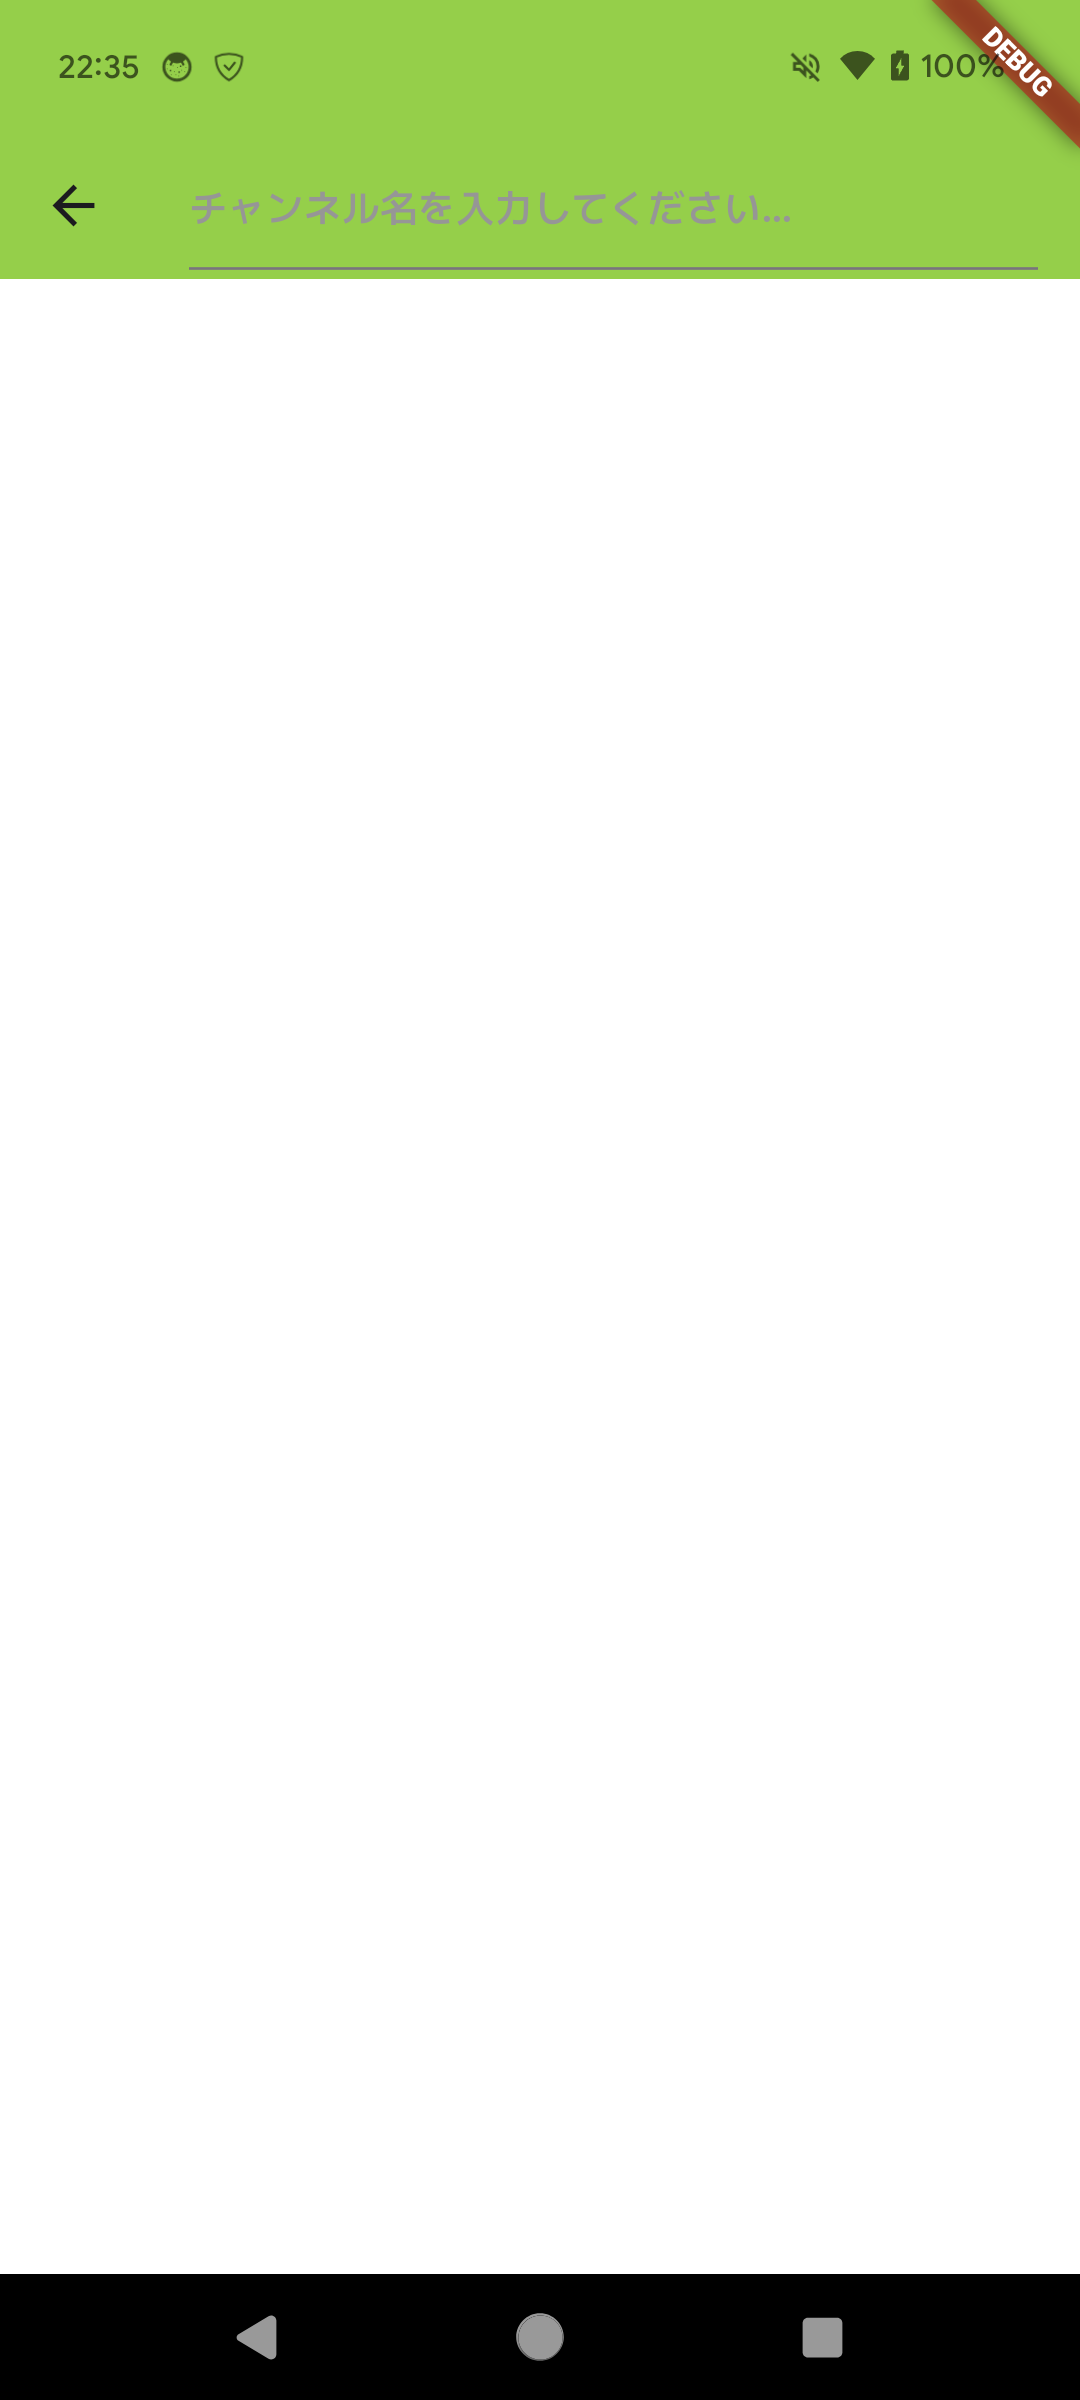
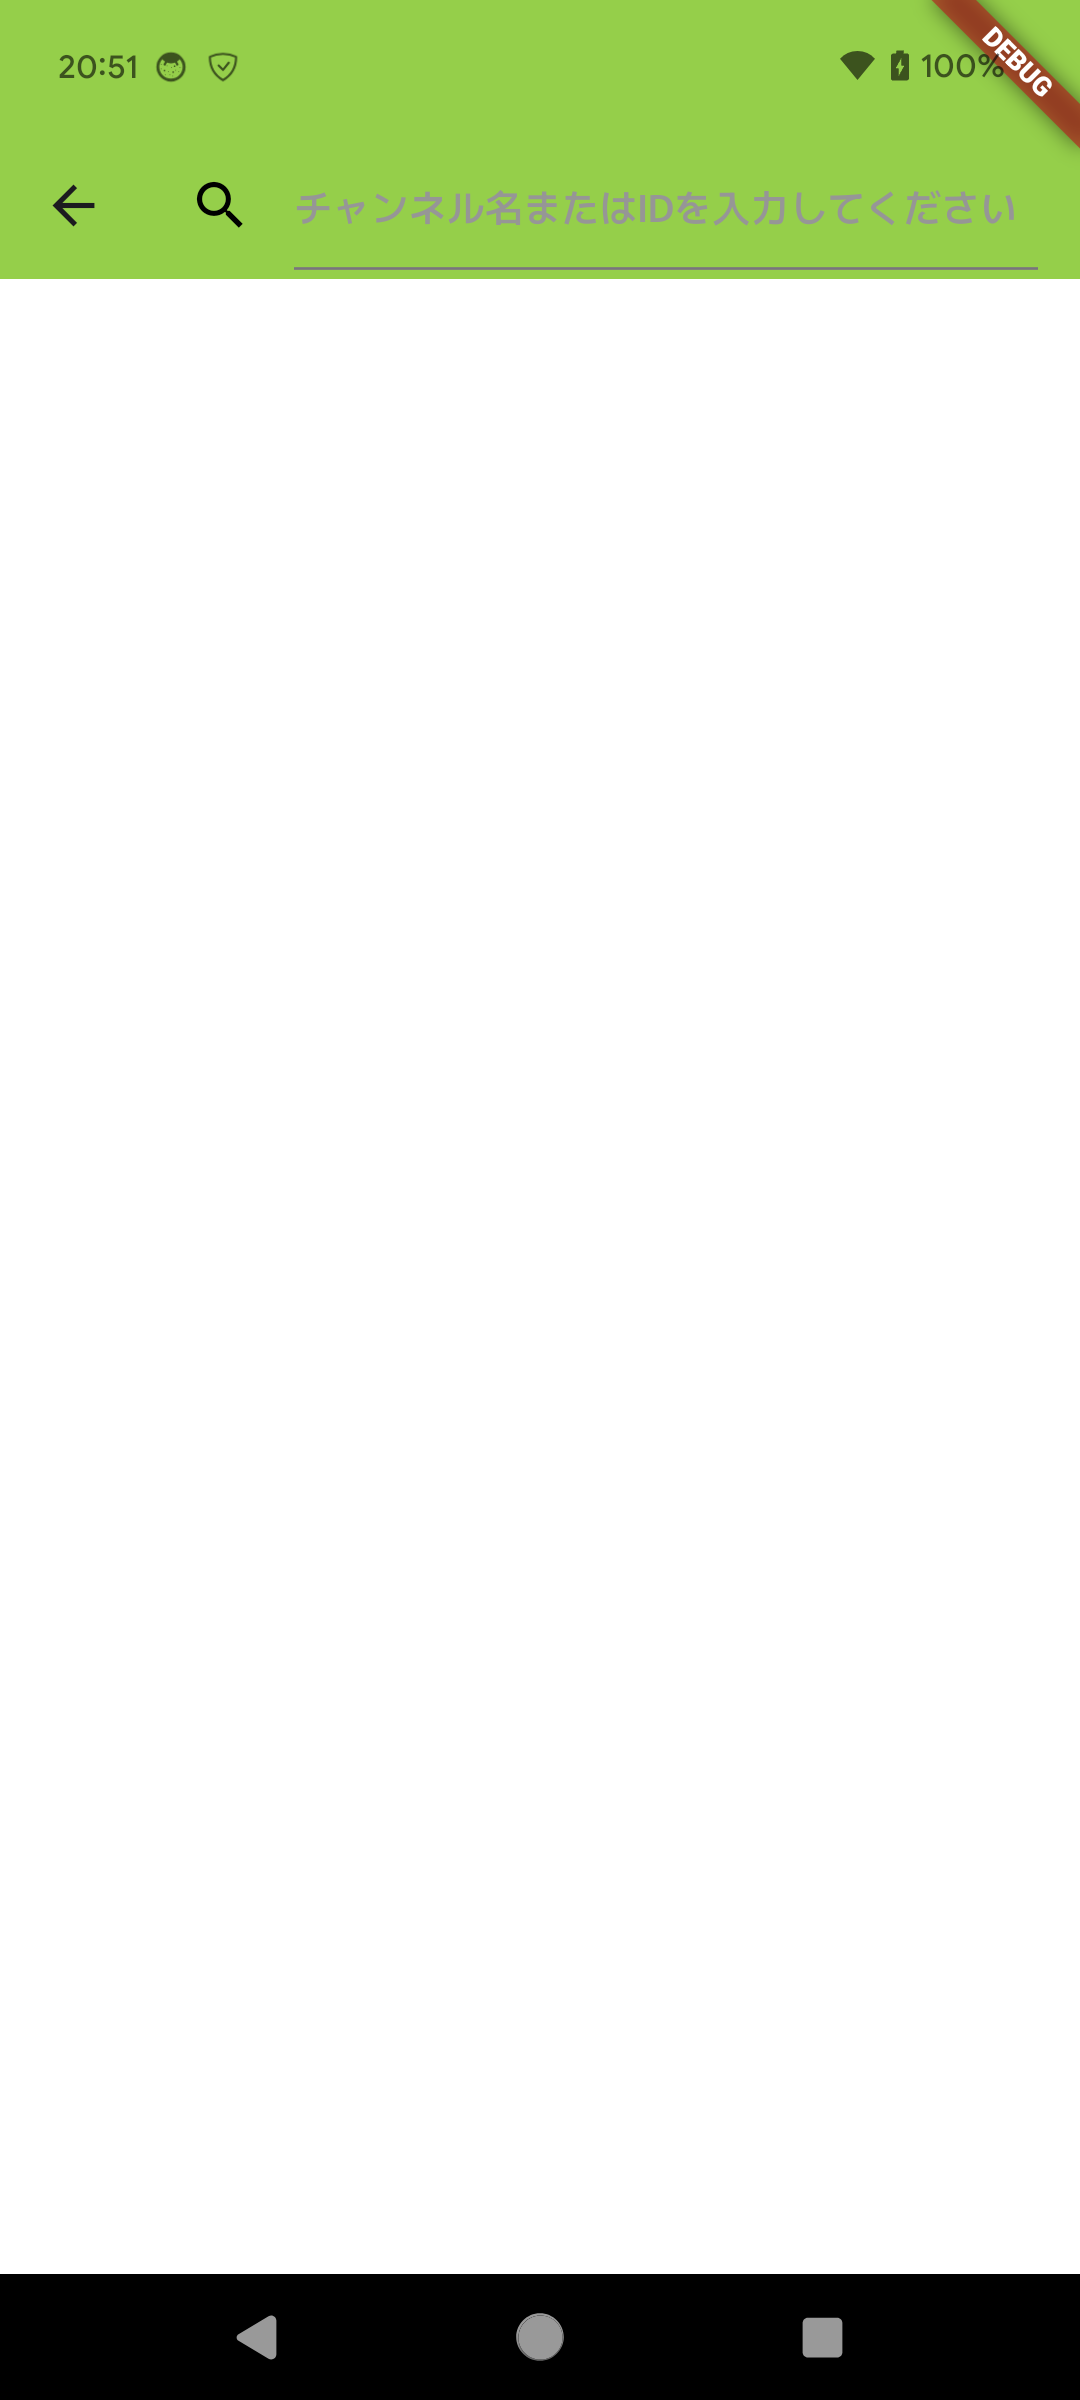
1.7.9仕様に更新しました。

diff --git a/docs/version-history.html b/docs/version-history.html
@@ -78,9 +78,40 @@
         <p>UIの英語切り替えに対応したため、系列を更新しました。</p>
 
         <details class="details" id="version62">
-            <summary class="summary">1.7.8(バージョンコード62)</summary>
+            <summary class="summary">1.7.9(バージョンコード63)</summary>
             <div class="content">
 
+                <div class="table-container" data-release-date="20240927" data-install-size="17.4[MB]"></div>
+                <hr class="new">
+                <ul>
+                    <li>以下の入力欄の先頭に<span class="material-icons" style="font-size: 1.2em;">search</span>アイコンを追加しました。</li>
+                    <ul>
+                        <li><span class="hover-text" data-image="images/display-channel-select-1.png"></span></li>
+                        <li><span class="hover-text" data-image="images/display-server-select.png"></span></li>
+                    </ul>
+                </ul>
+                <hr class="change">
+                <ul>
+                    <li><span class="hover-text" data-image="images/display-setting.png"></span>の<span
+                            class="button-like-text">Spotify接続設定</span>の<span
+                            class="button-like-text">してきたよ</span>ボタンを押下したときに表示されるダイアログの高さを低くしました。</li>
+                    <li><span class="hover-text"
+                            data-image="images/display-setting.png"></span>のアコーディオンを開いたときに境界線が表示されないように変更しました。</li>
+                </ul>
+                <hr class="fix">
+                <ul>
+                    <li>以下の画面の入力欄の下線がテーマカラーと連動しない不具合を修正しました。</li>
+                    <ul>
+                        <li><span class="hover-text" data-image="images/display-setting.png"></span></li>
+                        <li><span class="hover-text" data-image="images/display-playlist-detail.png"></span></li>
+                    </ul>
+                </ul>
+            </div>
+        </details>
+
+        <details class="details" id="version62">
+            <summary class="summary">1.7.8(バージョンコード62)</summary>
+            <div class="content">
 
                 <div class="table-container" data-release-date="20240924" data-install-size="17.4[MB]"></div>
                 <hr class="new">
@@ -91,7 +122,6 @@
                 <hr class="fix">
             </div>
         </details>
-
 
         <details class="details" id="version61">
             <summary class="summary">1.7.7(バージョンコード61)</summary>

diff --git a/docs/js/generate-text-by-image.js b/docs/js/generate-text-by-image.js
@@ -11,6 +11,9 @@ function updateSpanText() {
         // Conditional logic to change text based on the data-image value
         let newText = '';
         switch (dataImage) {
+            case 'images/display-server-select.png':
+                newText = 'Misskeyサーバー選択画面';
+                break;
             case 'images/display-setting.png':
                 newText = '設定画面';
                 break;

diff --git a/docs/js/load-version.js b/docs/js/load-version.js
@@ -2,7 +2,7 @@ document.addEventListener("DOMContentLoaded", function () {
     const versionElements = document.querySelectorAll('#version');
     if (versionElements) {
         versionElements.forEach((versionElement) => {
-            versionElement.textContent = "Ver 1.7.8";
+            versionElement.textContent = "Ver 1.7.9";
         })
     }
 });
